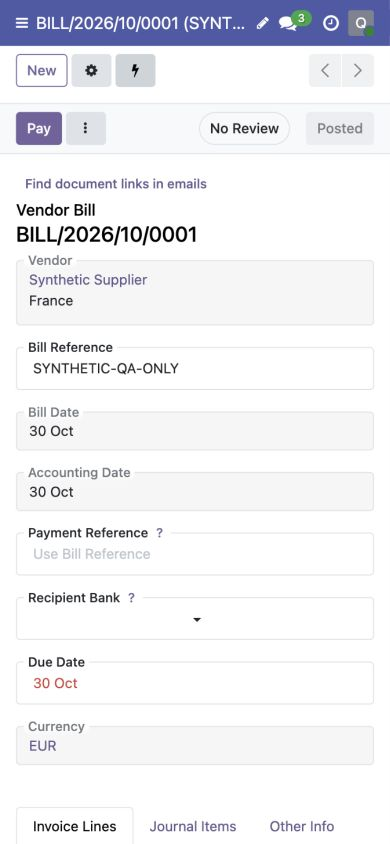
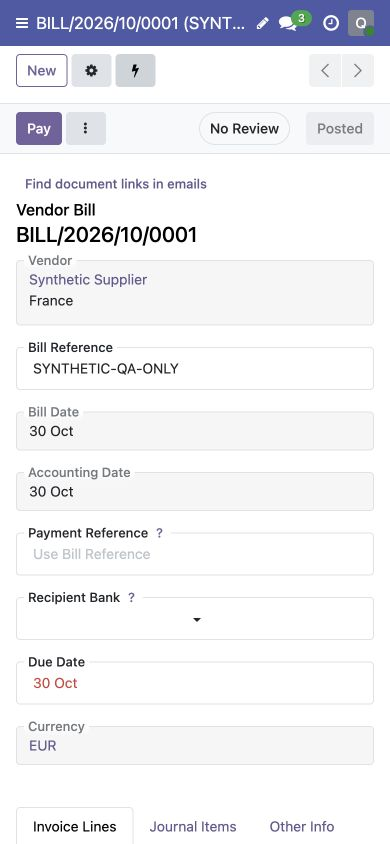
docs(qa): capture corrected catch-up journeys on the final source
Replace pre-repair reference screenshots with inspected synthetic captures from 4a60a1664a00 and include the unfiltered journal overview. Record the complete affected desktop/mobile suite results and distinguish still images from functional evidence.

Validation:
- Four captures visually inspected; metadata parser confirms only JFIF and no EXIF/XMP/comments. Posted bill, two journal rows, label filter, filtered reload, breadcrumb return and responsive mobile layout re-exercised. Full custom frontend suites: 344 desktop, 327 mobile passed.

AI-generated commit

diff --git a/docs/product/qa/upstream-sync-20261031/README.md b/docs/product/qa/upstream-sync-20261031/README.md
@@ -1,14 +1,16 @@
 # Odoo 19.3 catch-up browser evidence
 
-Captured 31 October 2026 from source revision `d38b64be186d` using a disposable
-clean-install database, synthetic company, supplier and posted EUR 100 bill.
-All displayed names, references and amounts are invented. Desktop viewport:
-1440 × 900; mobile viewport: 390 × 844. Browser chrome is excluded.
-Each capture was visually inspected; JPEG metadata has only the standard JFIF
-header, with no EXIF, XMP, comments, paths or credentials. These captures predate the attachment-fixture repair. That repair changes tests,
-development seeders, CI time allowance and documentation, with no visible product
-change. They remain reference captures of the same UI code, not new screenshots
-of the later repair revision.
+Recaptured 31 October 2026 from corrected source revision
+`4a60a1664a00808d63d580e9c45d44cc50a4da1f`, after the attachment-fixture repair.
+The task-only test image was rebuilt from that source and the current custom
+add-ons were mounted. The disposable clean-install database contains an invented
+company, supplier and posted EUR 100 bill. All names, references and amounts are
+synthetic. Desktop viewport: 1440 × 900; mobile: 390 × 844. Browser chrome is
+excluded. These replace the earlier pre-repair captures in this directory.
+
+Each capture was personally inspected. JPEG metadata has only the standard JFIF
+header, with no EXIF, XMP, comments, paths or credentials. Subsequent changes add
+these images and documentation only; visible product code is unchanged.
 
 ## Observed journey
 
@@ -21,11 +23,13 @@ of the later repair revision.
    secondary actions collapse into the native menu. Reset the viewport afterwards.
 
 The screenshots show layout and fixture state, not proof of functional behavior.
-The journey above was exercised separately. Native and full-distribution browser
-unit suites also passed 153 desktop and 20 mobile tests. This is a focused smoke
+The journey above was exercised separately. Native and full-distribution navigation suites passed 153 desktop and 20 mobile
+tests. The complete affected custom frontend selection also passed 344 desktop
+and 327 mobile tests. This is a focused smoke
 journey, not a claim that every application or browser-history path was exercised.
 
 - [Posted bill, desktop](posted-bill-desktop.jpg): native form and journal shortcut.
+- [Journal overview, desktop](journal-desktop.jpg): both synthetic accounting lines.
 - [Filtered journal, desktop](filtered-journal-desktop.jpg): shared filter after reload.
 - [Posted bill, mobile](posted-bill-mobile.jpg): compact form and native action menus.
 

diff --git a/docs/operations/upstream-sync-20261030.md b/docs/operations/upstream-sync-20261030.md
@@ -172,7 +172,7 @@ live sending/reporting stays disabled. Browser smoke is focused and does not
 claim every application or history path was exercised. The fresh reviewer audited
 USL adaptations and critical overlaps, not every line of all 499 upstream commits.
 
-Safe [final-source browser captures](../product/qa/upstream-sync-20261031/README.md)
+Safe [corrected-source browser captures](../product/qa/upstream-sync-20261031/README.md)
 show invented data only. Screenshots establish layout; functional outcomes were
 verified separately. No backup values, private identities, filenames, credentials
 or private logs are included in this public record.
@@ -199,6 +199,10 @@ transaction is rolled back. A variant audit found no other
 active owned writer. Keep the accounting protected-field denylist and the adapter
 that removes an inherited OCA legacy key: those occurrences are intentional.
 Dormant OCA legacy callers are outside the delivered module closure.
+
+The complete affected frontend selection also passes locally: 344 desktop and
+327 mobile cases. Final synthetic screenshots were recaptured from corrected
+source `4a60a1664a00`, inspected and metadata-audited.
 
 The failed run published no release and did not change deployed staging. The
 repository recovery protocol calls for reverting #359 to the exact previous
